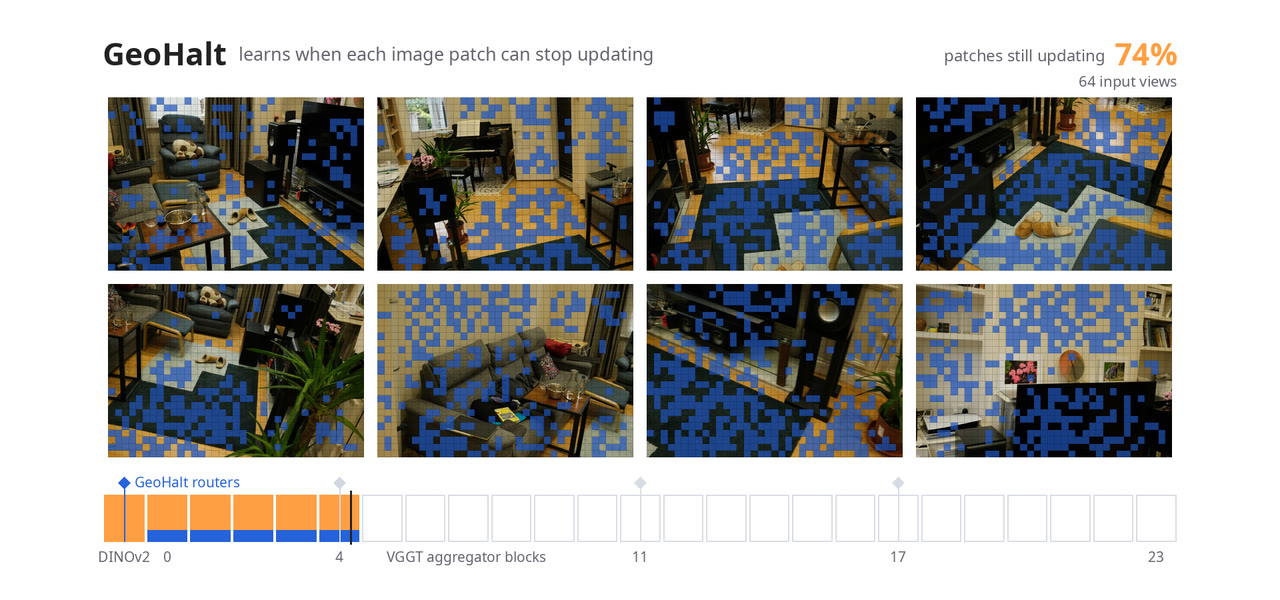
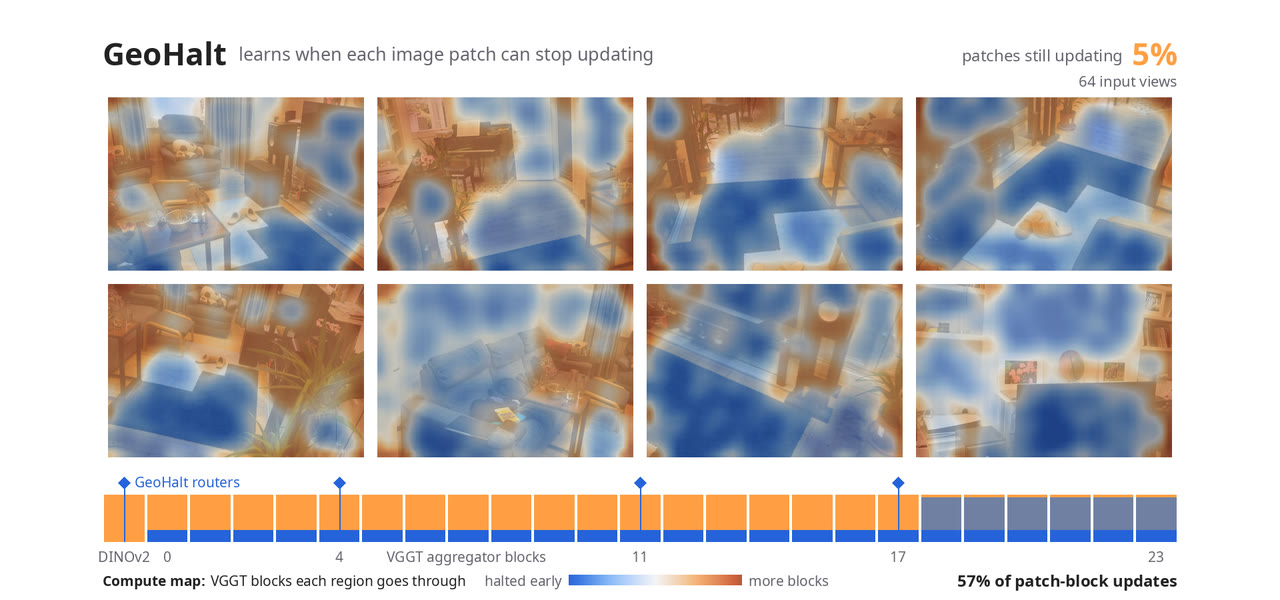
Fix spacing between the teaser video and Fig. 1
Wrap the video and its caption in a figure with an explicit bottom margin
(56px, 40px on small screens); the previous caption margin was overridden by
the .caption rule, leaving ~12px before Fig. 1. Use a fully built-up frame
as the poster and bump the stylesheet version.

diff --git a/index.html b/index.html
@@ -22,7 +22,7 @@
   <link rel="stylesheet" href="https://cdnjs.cloudflare.com/ajax/libs/font-awesome/6.5.1/css/all.min.css">
   <link rel="stylesheet" href="https://cdnjs.cloudflare.com/ajax/libs/academicons/1.9.4/css/academicons.min.css">
   <!-- Bump ?v= whenever style.css changes so browsers don't keep an old cached copy. -->
-  <link rel="stylesheet" href="static/css/style.css?v=3">
+  <link rel="stylesheet" href="static/css/style.css?v=4">
 </head>
 <body>
 
@@ -58,12 +58,13 @@
 <main>
 
   <section class="teaser">
-    <video class="teaser-video" autoplay muted loop playsinline preload="auto"
-           poster="static/videos/geohalt_teaser_poster.jpg" width="1280" height="600"
-           aria-label="GeoHalt halting decisions on input views, a compute map (red: still computing, blue: halted early) painted frame by frame onto a growing 64-view reconstruction, and a real-time comparison of VGGT and VGGT + GeoHalt.">
-      <source src="static/videos/geohalt_teaser.mp4" type="video/mp4">
-    </video>
-    <p class="caption teaser-video-caption">
+    <figure class="teaser-video-figure">
+      <video class="teaser-video" autoplay muted loop playsinline preload="auto"
+             poster="static/videos/geohalt_teaser_poster.jpg" width="1280" height="600"
+             aria-label="GeoHalt halting decisions on input views, a compute map (red: still computing, blue: halted early) painted frame by frame onto a growing 64-view reconstruction, and a real-time comparison of VGGT and VGGT + GeoHalt.">
+        <source src="static/videos/geohalt_teaser.mp4" type="video/mp4">
+      </video>
+      <figcaption>
       GeoHalt learns, for every image patch, when it can stop updating. On these 64 views, 26% of the patches halt
       right after DINOv2 and most others after block 17; only 5% pass through all 24 blocks, leaving 57% of the
       patch-block updates. The compute map (normalised over all 64 views) shows how many of the 24 blocks each region
@@ -73,7 +74,8 @@
       VGGT + GeoHalt reconstruct the 64 views in
       6.6&nbsp;s and 4.3&nbsp;s (1.55&times;); the reconstructions are revealed at a pace set by these measured
       latencies. Scene: Mip-NeRF&nbsp;360 <em>room</em>.
-    </p>
+      </figcaption>
+    </figure>
     <img src="static/images/fig1_teaser.webp" width="2400" height="837"
          alt="500-view ScanNet reconstruction from ground truth, VGGT, SparseVGGT, SparseVGGT + GeoHalt, FastVGGT and FastVGGT + GeoHalt, with point clouds on top and distance to ground truth below.">
     <p class="caption">

diff --git a/static/css/style.css b/static/css/style.css
@@ -87,7 +87,7 @@ section.teaser { margin-top: 72px; }
   margin: 0 auto;
   background: #ffffff;
 }
-.teaser-video-caption { margin-bottom: 44px; }
+.teaser-video-figure { margin: 0 0 56px; }
 
 h2 {
   margin: 0 0 18px;
@@ -198,6 +198,7 @@ figure.narrow figcaption { text-align: center; }
   h2 { font-size: 1.45rem; }
   section { margin-top: 60px; }
   section.teaser { margin-top: 52px; }
+  .teaser-video-figure { margin-bottom: 40px; }
   .authors, .buttons { margin-top: 28px; }
   .text, .caption, figcaption { text-align: left; }
 }
